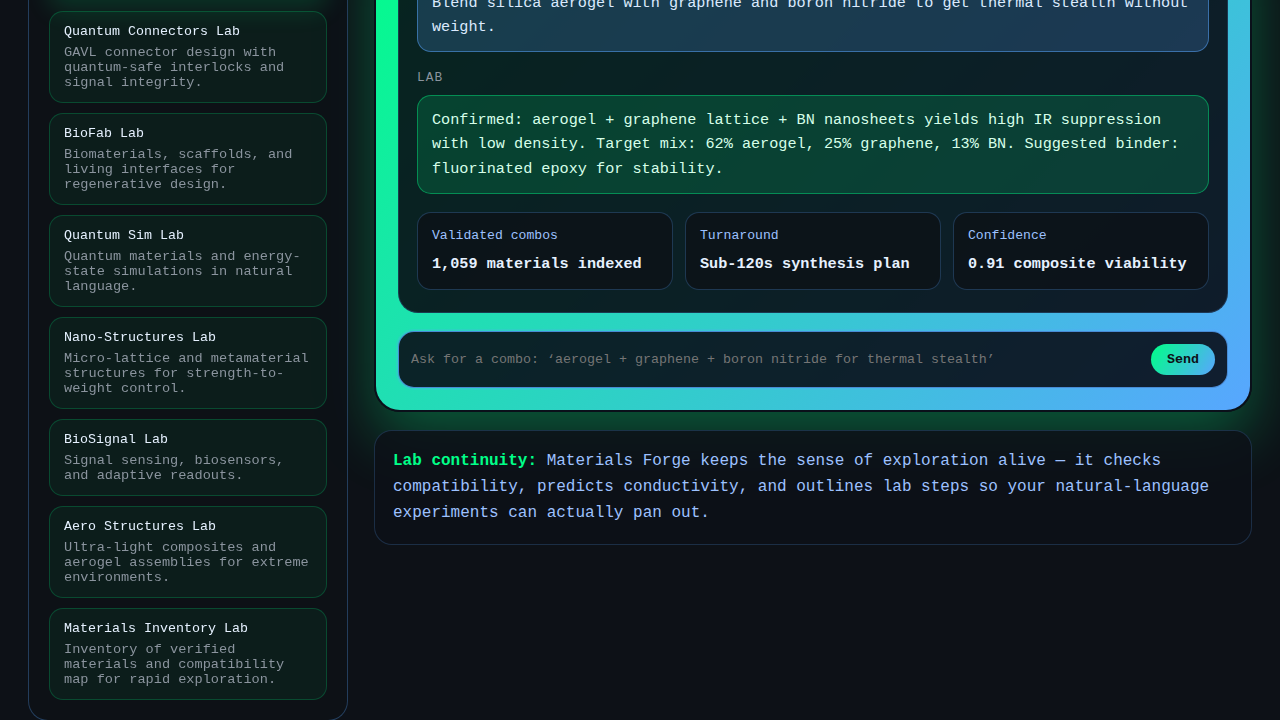
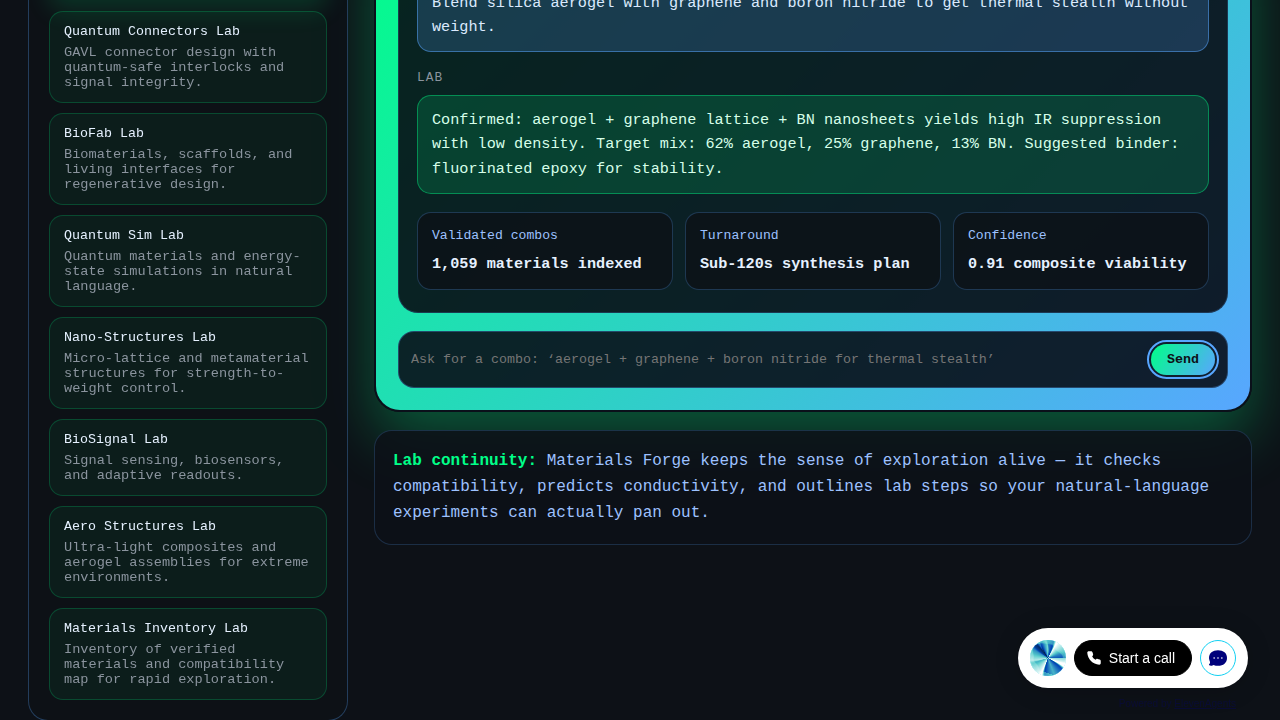
Add focus-visible states and explicitly set type=button to lab items for improved accessibility

Changed region(s): [[0.7812, 0.8556, 1.0, 0.9778], [0.9062, 0.4583, 0.9688, 0.4889], [0.9062, 0.5194, 0.9375, 0.55]]

diff --git a/index.html b/index.html
@@ -346,6 +346,13 @@
             font-size: 0.9rem;
         }
 
+
+        .prompt-input:focus-visible {
+            outline: none;
+            box-shadow: 0 0 0 2px var(--accent);
+            border-radius: 4px;
+        }
+
         .prompt-send {
             background: var(--accent);
             color: #0b0f17;
@@ -698,6 +705,23 @@
                 active.classList.add('active');
                 active.setAttribute('aria-current', 'true');
             }
+        };
+
+        const renderLabs = (filterText = '') => {
+            labList.innerHTML = '';
+            const filtered = labs.filter(lab => lab.name.toLowerCase().includes(filterText.toLowerCase()));
+
+            filtered.forEach((lab, index) => {
+                const btn = document.createElement('button');
+                btn.className = 'lab-item';
+                btn.type = 'button'; // explicit button type for accessibility
+                btn.innerHTML = `
+                    <div style="font-weight:600">${lab.name}</div>
+                    <small>Domain Module</small>
+                `;
+                btn.addEventListener('click', () => selectLab(lab, labs.indexOf(lab)));
+                labList.appendChild(btn);
+            });
         };
 
         renderLabs();
